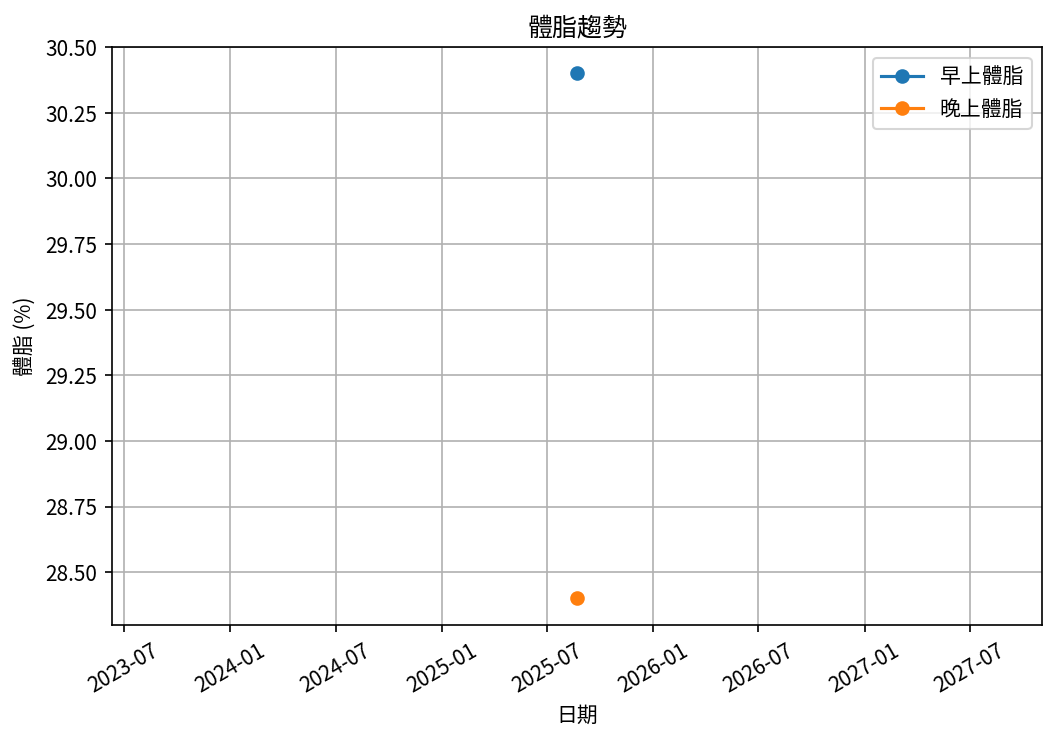
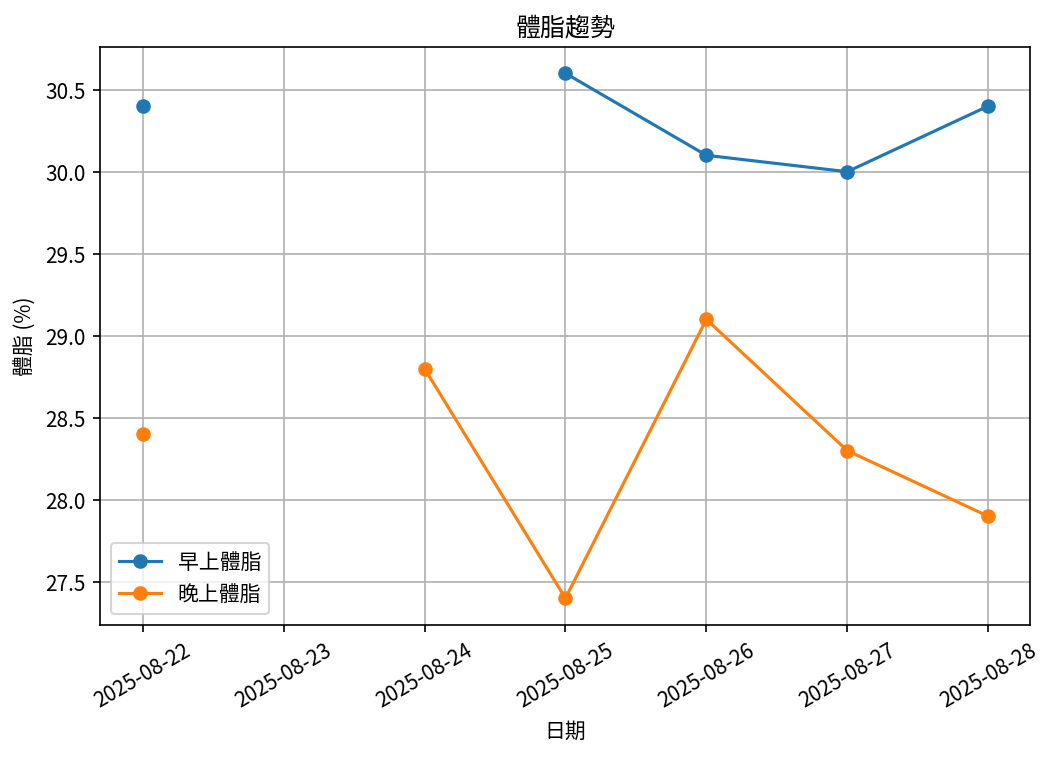
Update values

diff --git a/reports/summary/overall_summary_report.md b/reports/summary/overall_summary_report.md
@@ -1,7 +1,7 @@
 # 📊 減重總結報告
 
-**總期間：2025/08/15 ～ 2025/08/27**  
-**追蹤期間：13 天 (2 週)**  
+**總期間：2025/08/15 ～ 2025/08/28**  
+**追蹤期間：14 天 (2 週)**  
 
 ---
 
@@ -13,13 +13,13 @@
 |:-------------|:----------------|:----------------|:---------------|:---------------|
 | 08/15 (週五) | 109.0           | 109.8           | nan            | 29.0           |
 | ...          | ...             | ...             | ...            | ...            |
-| 08/21 (週四) | 107.0           | 106.8           | 30.4           | 27.0           |
 | 08/22 (週五) | 106.2           | 106.9           | 30.4           | 28.4           |
 | 08/23 (週六) | nan             | nan             | nan            | nan            |
 | 08/24 (週日) | nan             | 106.5           | nan            | 28.8           |
 | 08/25 (週一) | 105.8           | 106.2           | 30.6           | 27.4           |
 | 08/26 (週二) | 105.6           | 105.9           | 30.1           | 29.1           |
-| 08/27 (週三) | 105.2           | nan             | 30.0           | nan            |
+| 08/27 (週三) | 105.2           | 105.9           | 30.0           | 28.3           |
+| 08/28 (週四) | 104.8           | 105.5           | 30.4           | 27.9           |
 
 ---
 
@@ -32,23 +32,24 @@
 
 ## 📌 總體統計
 
-- **體重（AM）**：109.0 → 105.2 kg  (**-3.8 kg**), 總平均 107.2 kg  
-- **體重（PM）**：109.8 → 105.9 kg  (**-3.9 kg**), 總平均 107.7 kg  
-- **體重（AM+PM 平均）**：107.4 kg  
+- **體重（AM）**：109.0 → 104.8 kg  (**-4.2 kg**), 總平均 107.0 kg  
+- **體重（PM）**：109.8 → 105.5 kg  (**-4.3 kg**), 總平均 107.4 kg  
+- **體重（AM+PM 平均）**：107.2 kg  
 
-- **體脂（AM）**：30.3% → 30.0%  (**-0.3%**), 總平均 30.4%  
-- **體脂（PM）**：29.0% → 29.1%  (**0.1%**), 總平均 28.3%  
-- **體脂（AM+PM 平均）**：29.4%  
+- **體脂（AM）**：30.3% → 30.4%  (**0.1%**), 總平均 30.4%  
+- **體脂（PM）**：29.0% → 27.9%  (**-1.1%**), 總平均 28.3%  
+- **體脂（AM+PM 平均）**：29.3%  
 
-- **追蹤天數**：13 天  
-- 平均每週體重變化（AM）：-1.9 kg/週  
-- 平均每週體重變化（PM）：-1.9 kg/週
+- **追蹤天數**：14 天  
+- 平均每週體重變化（AM）：-2.1 kg/週  
+- 平均每週體重變化（PM）：-2.1 kg/週
 
 ---
 
 ## 🎯 重點成果
 
-✅ **體重減少**：在 13 天內減重 3.8 kg（早上測量）  
+✅ **體重減少**：在 14 天內減重 4.2 kg（早上測量）  
+✅ **體脂下降**：體脂率降低 1.1%（晚上測量）  
 
 ## ✅ 持續建議
 - 維持 **高蛋白 (每公斤 1.6–2.0 g)** 與 **每週 2–3 次阻力訓練**  

diff --git a/reports/2025-CW02/2025-CW02_weekly_report.md b/reports/2025-CW02/2025-CW02_weekly_report.md
@@ -9,6 +9,12 @@
 | 日期         |   早上體重 (kg) |   晚上體重 (kg) |   早上體脂 (%) |   晚上體脂 (%) |
 |:-------------|----------------:|----------------:|---------------:|---------------:|
 | 08/22 (週五) |           106.2 |           106.9 |           30.4 |           28.4 |
+| 08/23 (週六) |           nan   |           nan   |          nan   |          nan   |
+| 08/24 (週日) |           nan   |           106.5 |          nan   |           28.8 |
+| 08/25 (週一) |           105.8 |           106.2 |           30.6 |           27.4 |
+| 08/26 (週二) |           105.6 |           105.9 |           30.1 |           29.1 |
+| 08/27 (週三) |           105.2 |           105.9 |           30   |           28.3 |
+| 08/28 (週四) |           104.8 |           105.5 |           30.4 |           27.9 |
 
 ---
 
@@ -21,15 +27,15 @@
 
 ## 📌 本週統計
 
-- 體重（AM）：106.2 → 106.2 kg  (**0.0 kg**), 週平均 106.2 kg  
-- 體重（PM）：106.9 → 106.9 kg  (**0.0 kg**), 週平均 106.9 kg  
-- 體重（AM+PM 平均）：106.6 kg  
+- 體重（AM）：106.2 → 104.8 kg  (**-1.4 kg**), 週平均 105.5 kg  
+- 體重（PM）：106.9 → 105.5 kg  (**-1.4 kg**), 週平均 106.1 kg  
+- 體重（AM+PM 平均）：105.8 kg  
 
-- 體脂（AM）：30.4% → 30.4%  (**0.0%**), 週平均 30.4%  
-- 體脂（PM）：28.4% → 28.4%  (**0.0%**), 週平均 28.4%  
-- 體脂（AM+PM 平均）：29.4%  
+- 體脂（AM）：30.4% → 30.4%  (**0.0%**), 週平均 30.3%  
+- 體脂（PM）：28.4% → 27.9%  (**-0.5%**), 週平均 28.3%  
+- 體脂（AM+PM 平均）：29.3%  
 
-- 紀錄天數：1 天
+- 紀錄天數：7 天
 
 ---
 
